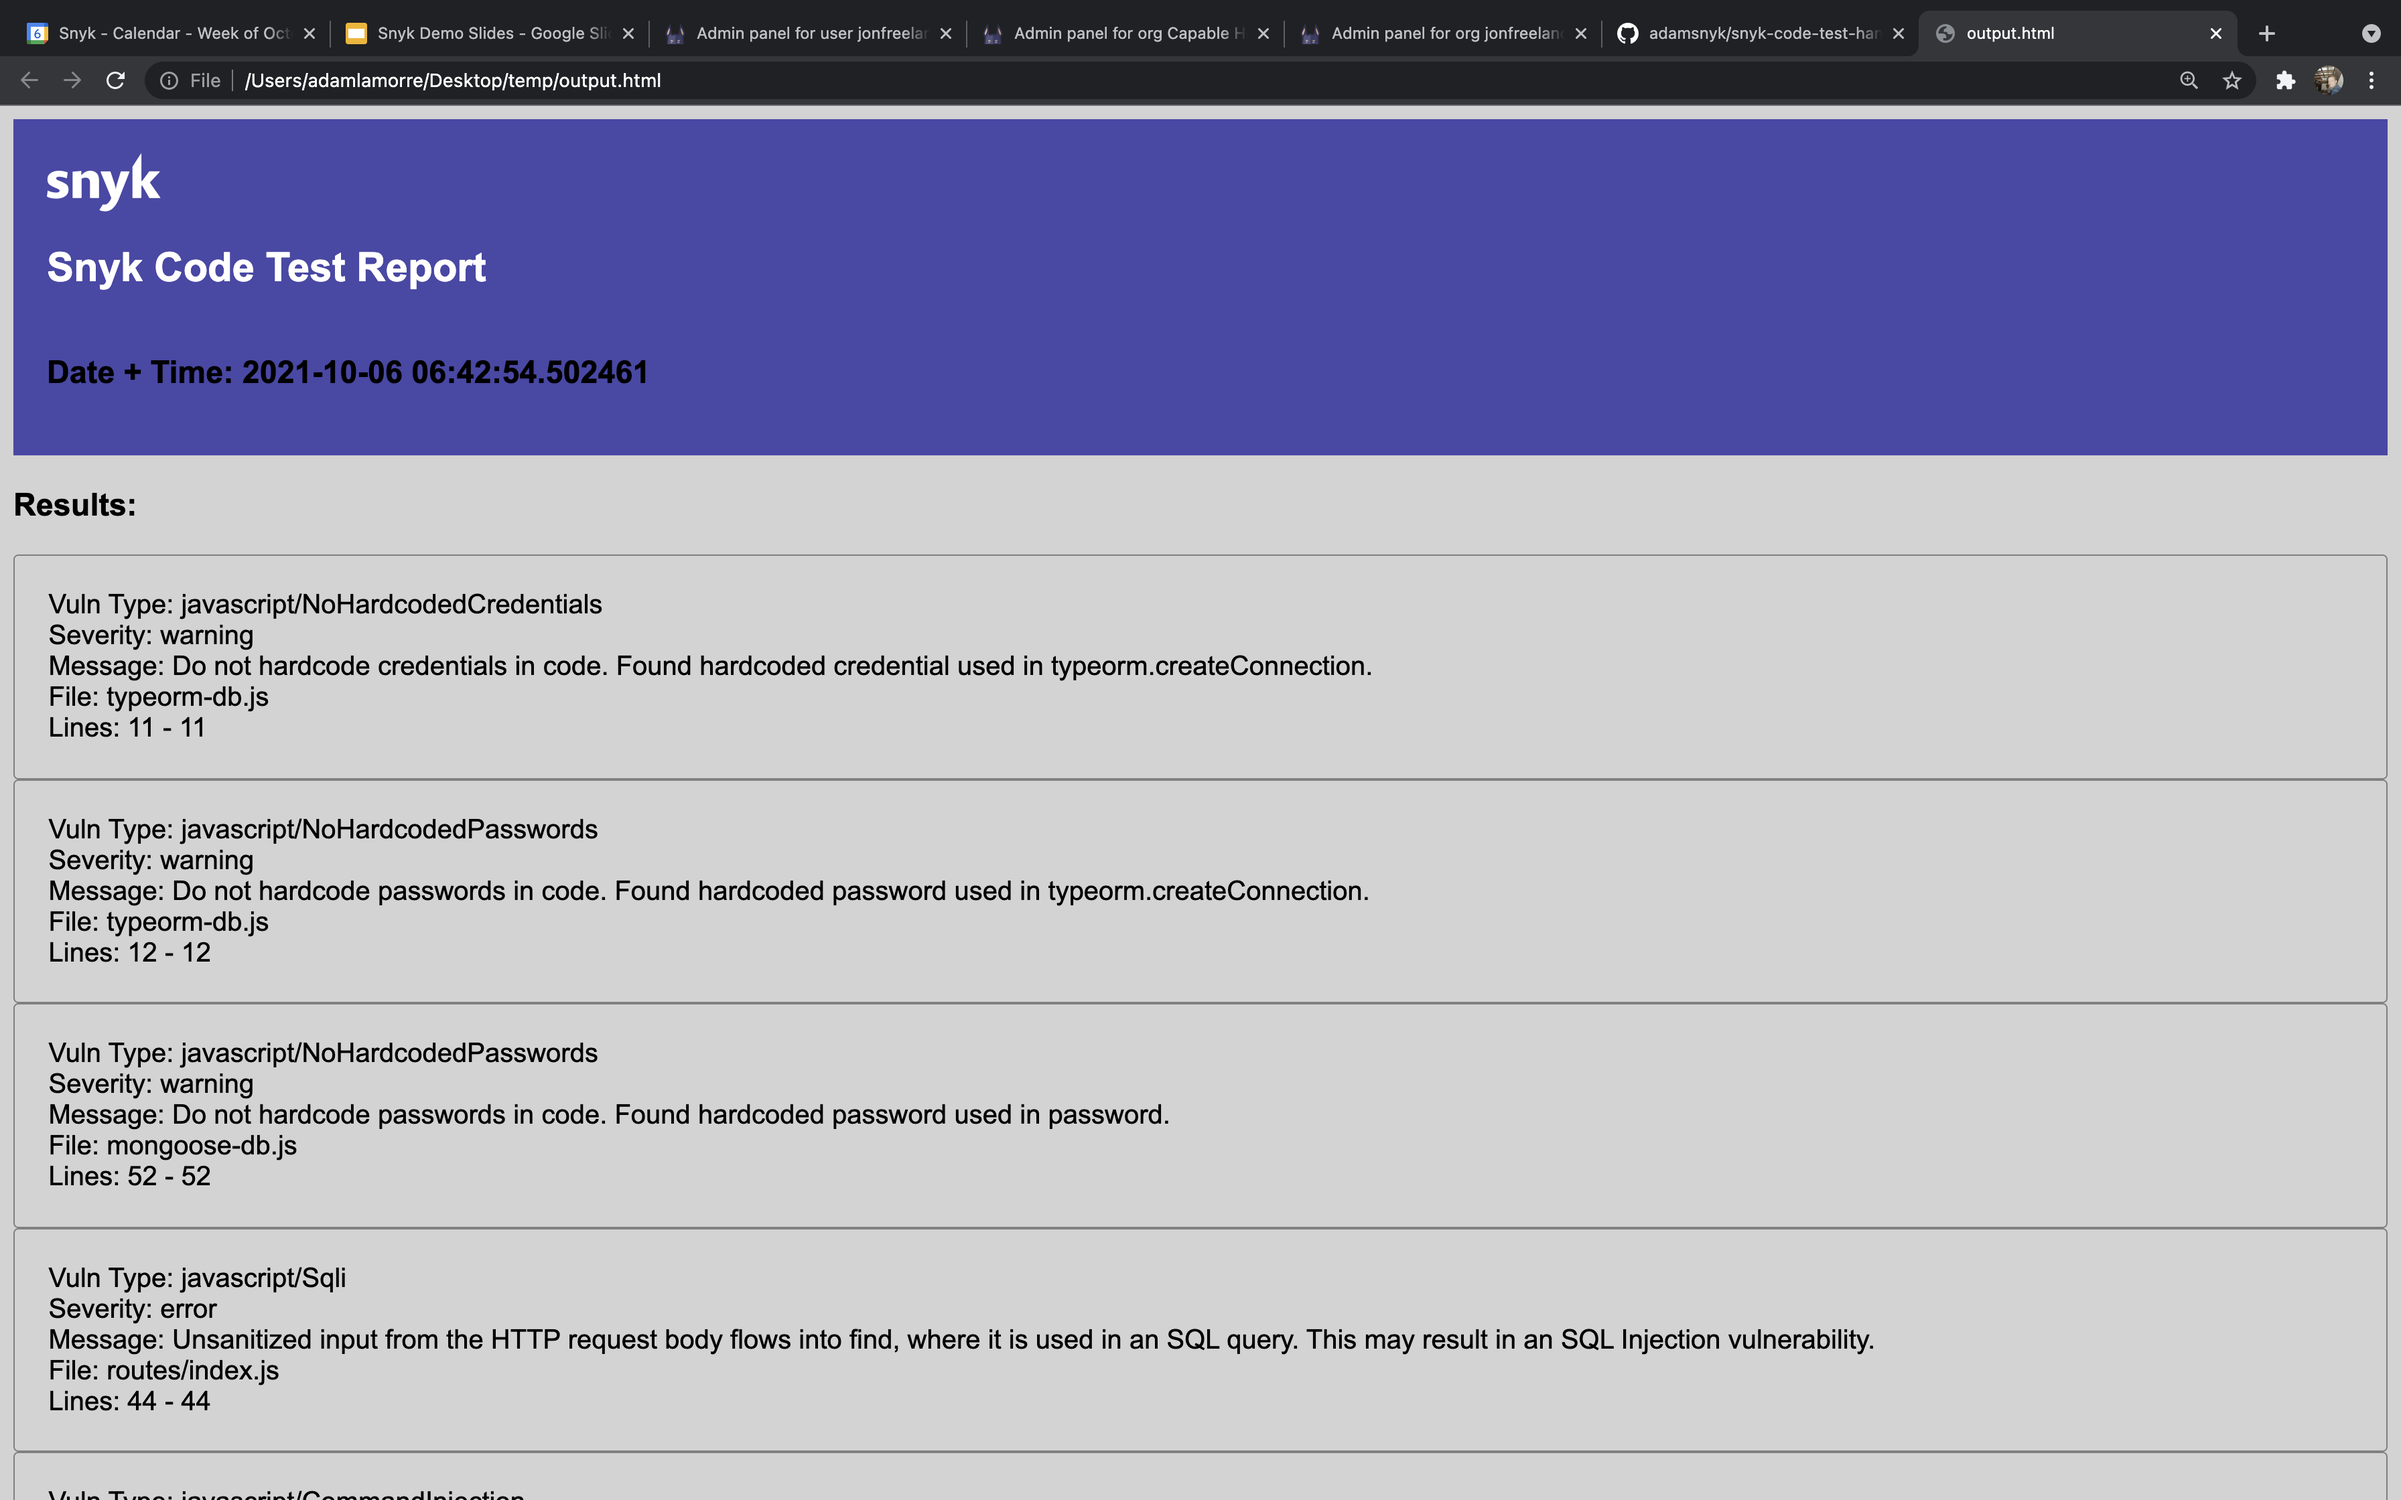
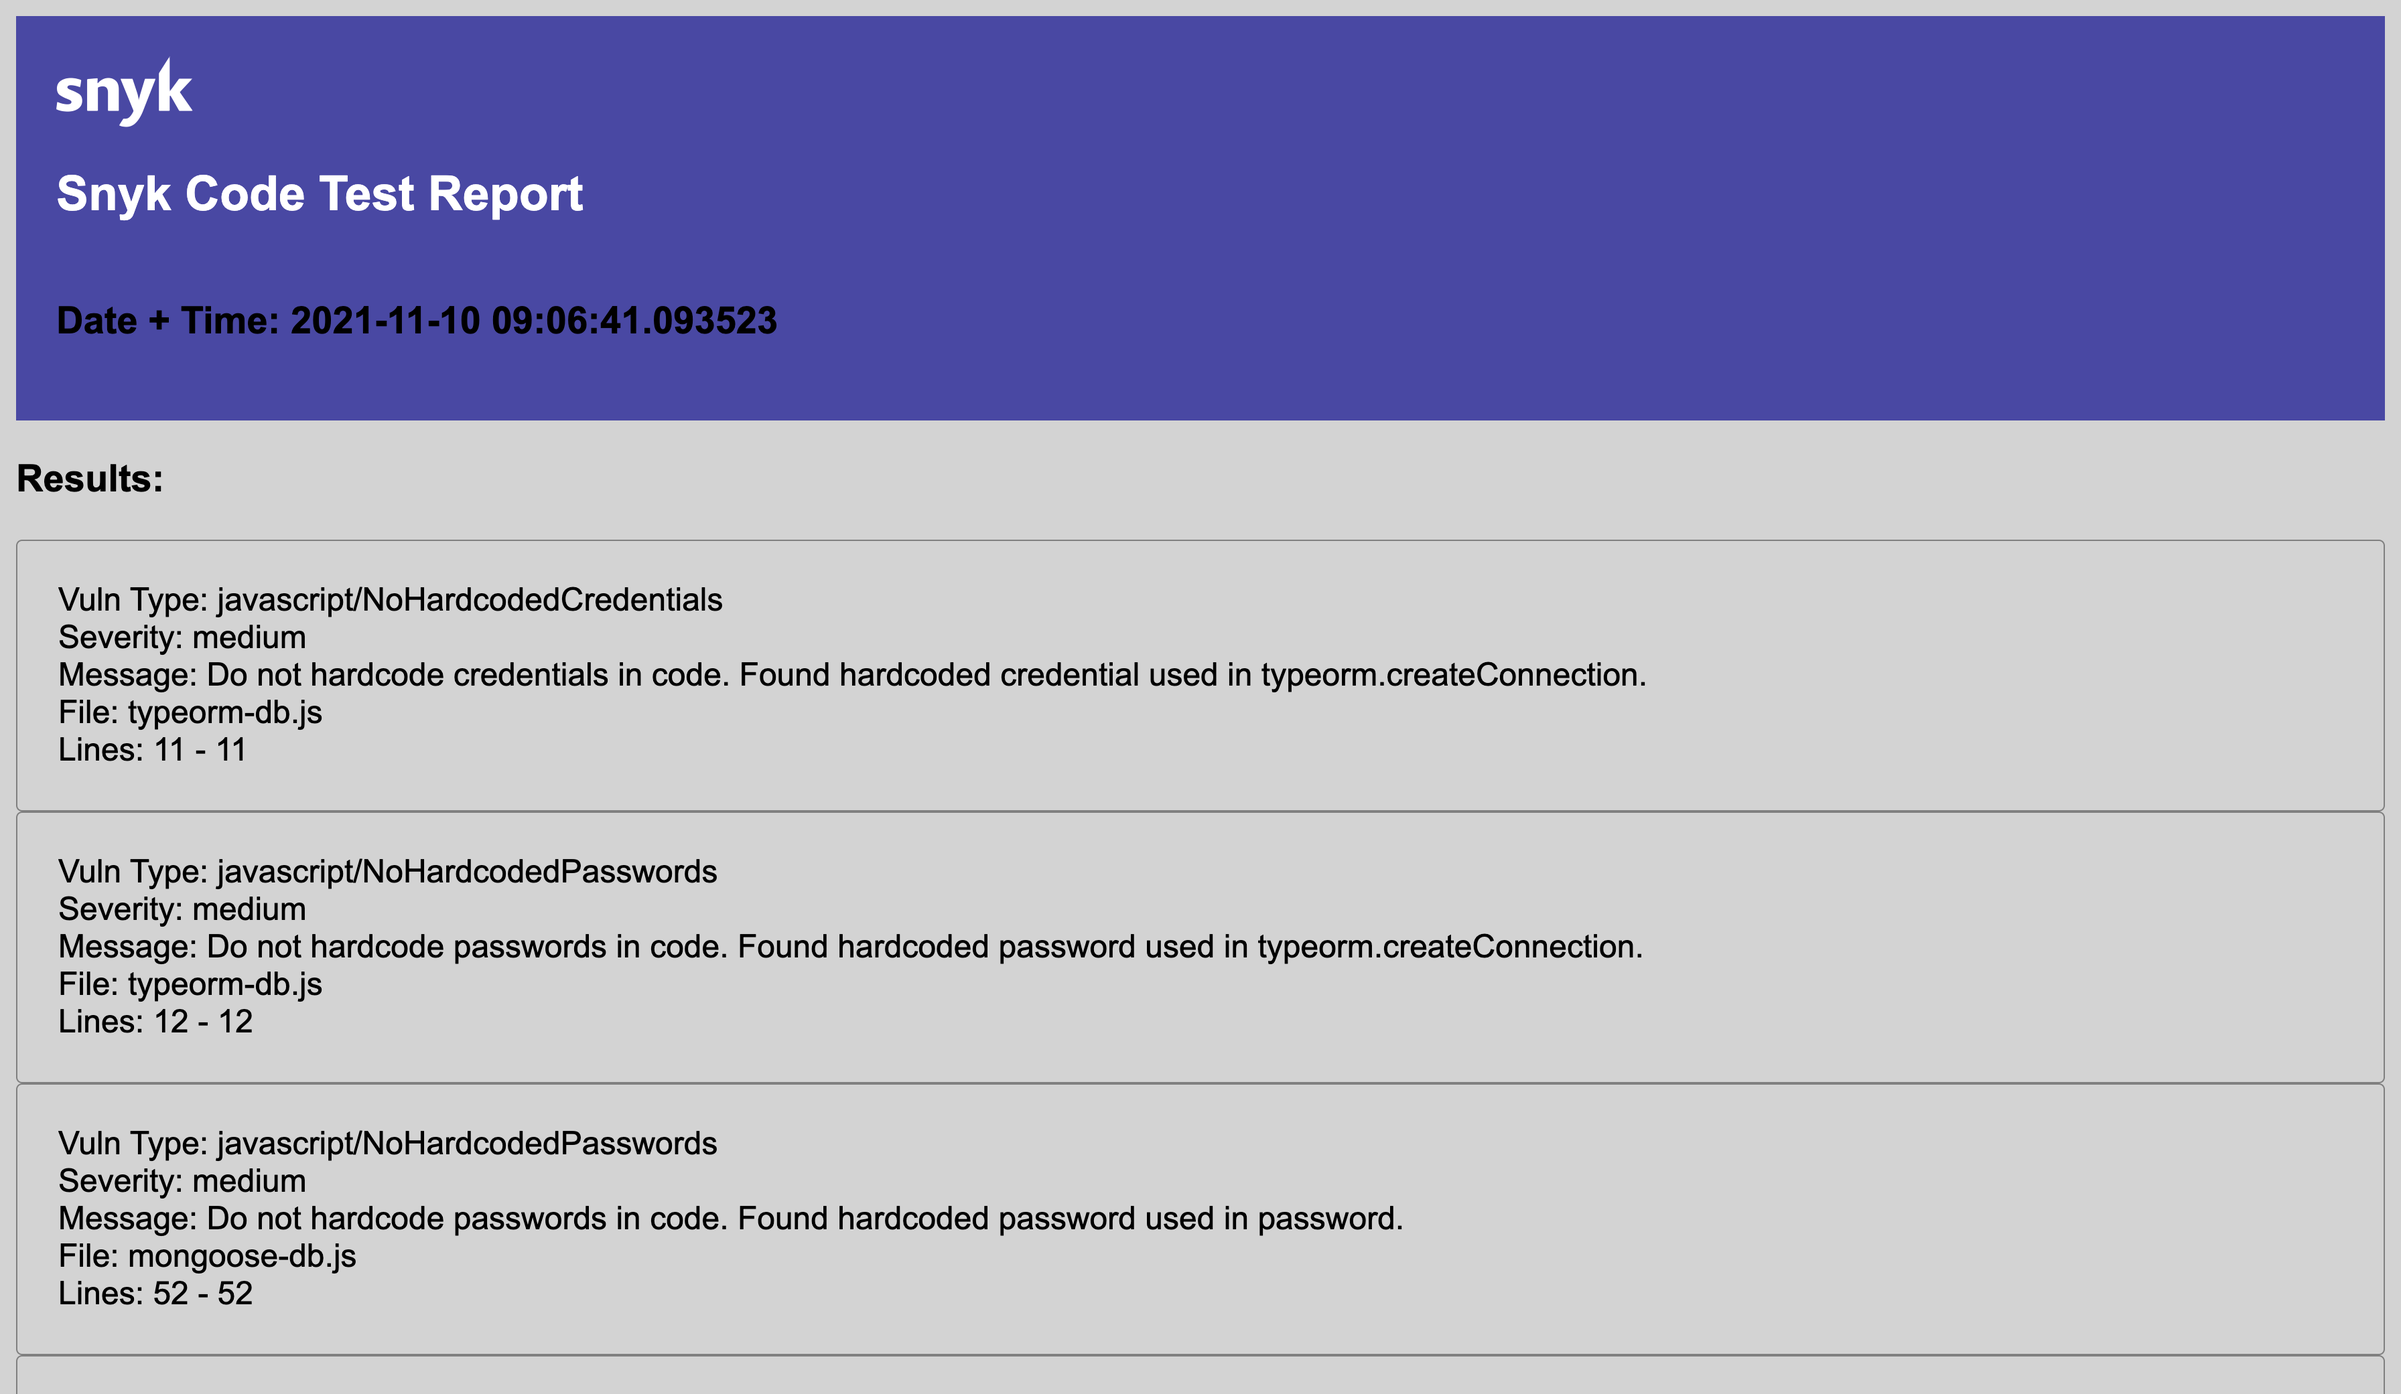
severity mapping is complete

diff --git a/code_test_report/__main__.py b/code_test_report/__main__.py
@@ -15,6 +15,14 @@ def get_data_from_file(file_path: str) -> dict:
         data = json.load(f)
     return data
 
+def level_mapping(level: str) -> str:
+    if level == 'error':
+        return 'high'
+    elif level == 'warning':
+        return 'medium'
+    else:
+        return 'low'
+
 
 def fetch_simple_results(data: dict) -> list:
     results = data["runs"][0]["results"]
@@ -24,7 +32,7 @@ def fetch_simple_results(data: dict) -> list:
     for result in results:
         simple_result = {}
         simple_result["type"] = result["ruleId"]
-        simple_result["level"] = result["level"]
+        simple_result["level"] = level_mapping(result["level"])
         simple_result["message"] = result["message"]["text"]
         simple_result["file"] = result["locations"][0]["physicalLocation"][
             "artifactLocation"
